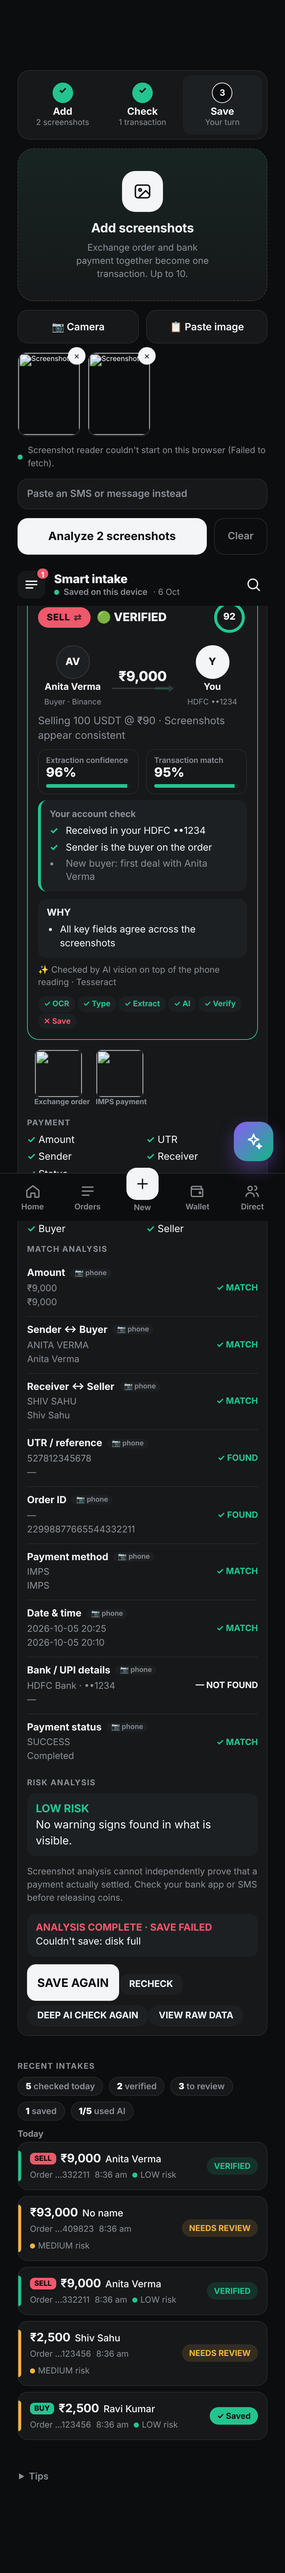
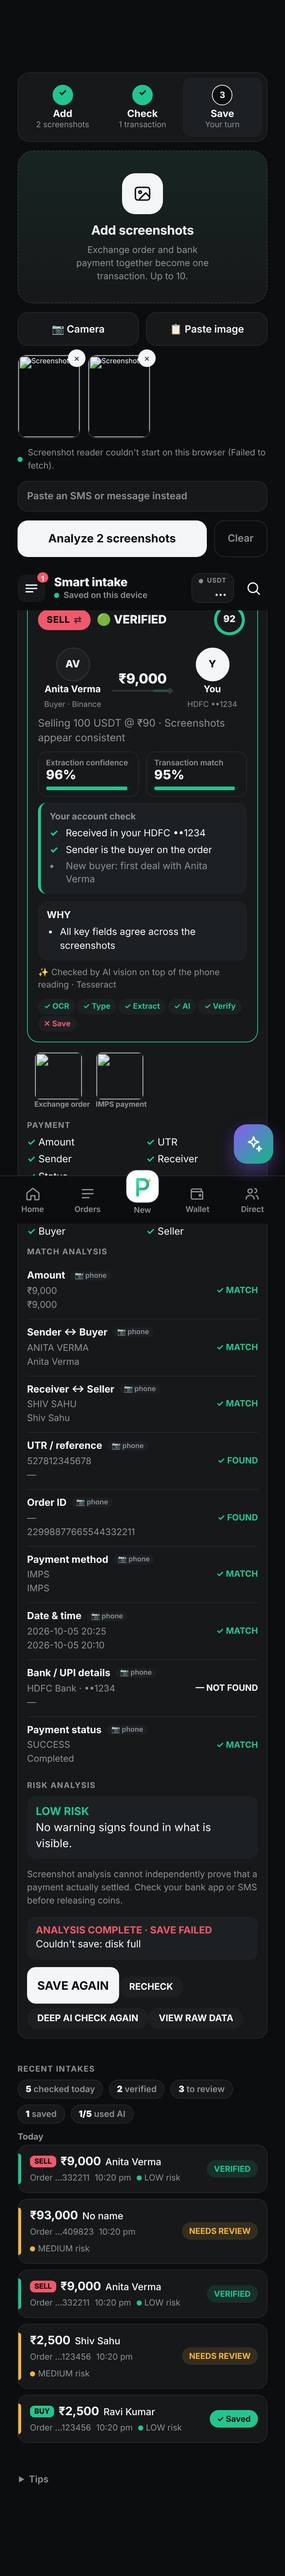
Smart intake: link several part payments to one order and save each as its own bank split
Claude-Session: https://claude.ai/code/session_01Wus5P8BMW3JZywQjbeFwaG

diff --git a/web/index.html b/web/index.html
@@ -2413,6 +2413,19 @@ function ixGroup(items){const pays=items.filter(x=>x.pay),ords=items.filter(x=>x
   const score=(p,j)=>ixPairScore(p.pay,ords[j].ord,p.ocr.text);
   const pairs=[];pays.forEach(p=>ords.forEach((o,j)=>pairs.push({p,j,s:score(p,j),hard:ixHard(p.pay,o.ord)})));pairs.sort((a,b)=>b.s-a.s);
   const used=new Set(),taken=new Set();
+  // pass 0: part payments. Several payments (other banks / other amounts) that add up to exactly one order's total are ONE transaction
+  ords.forEach((o,j)=>{try{const O=o.ord,amt=O.fiat!=null?O.fiat:(O.crypto&&O.price?O.crypto*O.price:null);if(!(amt>0))return;const tol=Math.max(1,amt*0.002);
+    if(pays.some(p=>!used.has(p)&&p.pay.amount!=null&&Math.abs(p.pay.amount-amt)<=tol))return; // one payment already fits the whole order
+    const ot=verWhen((O.when||"").slice(0,10),(O.when||"").slice(11,16));
+    const cand=pays.filter(p=>{const q=p.pay;if(used.has(p)||!(q.amount>0)||q.amount>=amt-tol)return false;
+      if(verName(q.sender,O.buyer)==="X"&&verName(q.receiver,O.seller)==="X")return false;
+      const pt=verWhen(q.date,q.time);if(pt&&ot){const d=pt-ot;if(d<-5*60e3||d>48*36e5)return false}return true})
+      .sort((a,b)=>(verWhen(a.pay.date,a.pay.time)||0)-(verWhen(b.pay.date,b.pay.time)||0)).slice(0,8);
+    let best=null;for(let m=1;m<(1<<cand.length);m++){const sub=cand.filter((_,i)=>m&(1<<i));if(sub.length<2||sub.length>4)continue;
+      const sum=sub.reduce((t,x)=>t+x.pay.amount,0);if(Math.abs(sum-amt)>tol)continue;
+      const u=sub.map(x=>x.pay.utr?normRef(x.pay.utr):"").filter(Boolean);if(new Set(u).size<u.length)continue; // the same payment twice is not two part payments
+      if(!best||sub.length<best.length)best=sub}
+    if(best){best.forEach(p=>{used.add(p);p.part=true;p.pairScore=3});taken.add(j);groups[j].pays.push(...best);groups[j].partSum=best.reduce((t,x)=>t+x.pay.amount,0)}}catch(e){}});
   // pass 1: strong evidence, one payment per order first
   pairs.forEach(x=>{if(used.has(x.p)||taken.has(x.j)||x.s<2||x.hard)return;used.add(x.p);taken.add(x.j);groups[x.j].pays.push(x.p);x.p.pairScore=x.s});
   // pass 2: whatever is left. A lone order and a lone payment are the same transaction unless they clearly contradict each other
@@ -2448,7 +2461,7 @@ function ixAiReady(){return aiCfg.prov!=="builtin"||i2Max>0}
 function ixVerify(g){const P=(g.pays.find(x=>!x.support)||g.pays[0]||{}).pay,O=(g.order||{}).ord;
   const X={pay:g.aiPay||P||{status:null,amount:null,currency:null,sender:null,receiver:null,utr:null,method:null,bank:null,date:null,time:null,acct:null,conf:null},ord:g.aiOrd||O||{id:null,status:null,buyer:null,seller:null,fiat:null,crypto:null,coin:null,price:null,method:null,when:null,acct:null,conf:null},flags:g.aiFlags||[]};
   // clean junk names, then fill in YOUR side: the receipt rarely prints your own name, and the exchange order never prints it
-  g.inferred=[];X.pay={...X.pay};X.ord={...X.ord};
+  g.inferred=[];X.pay={...X.pay};X.ord={...X.ord};if(g.partSum&&X.pay)X.pay.amount=g.partSum;
   ["sender","receiver"].forEach(k=>{if(X.pay[k]){const c=ixNameClean(X.pay[k]);X.pay[k]=c||null}});["buyer","seller"].forEach(k=>{if(X.ord[k]){const c=ixNameClean(X.ord[k]);X.ord[k]=c||null}});
   try{if(X.ord.whenAlt&&X.ord.when&&X.pay.date){const pt=verWhen(X.pay.date,X.pay.time),T=v=>new Date(String(v).replace(" ","T")).getTime();if(pt&&Math.abs(T(X.ord.whenAlt)-pt)<Math.abs(T(X.ord.when)-pt))X.ord.when=X.ord.whenAlt}}catch(e){}
   g.X=X;
@@ -4784,10 +4797,17 @@ async function ixSave(g,force){const X=g.X,P=X.pay,O=X.ord;
     let proofs=[];if(assetsApi){try{proofs=await uploadProofs(g.items.map(x=>x.file))}catch(e){}}
     const shots=g.items.map(x=>x.hash);const pv=g.cmp.overall==="VERIFIED"?"verified":"ai";const method=METHODS.includes(String(verMeth(P.method)))?verMeth(P.method):"UPI";
     const split=bk&&P.amount?[{bank:bk.id,amt:+P.amount,method}]:[];const notes=[];if(P.amount&&!bk)notes.push("Bank not matched · assign it later");
+    // part payments (several payments that together make this order): each one becomes its own bank split
+    if(g.partSum){try{split.length=0;notes.length=0;let lost=0;const seen=new Set();
+      g.pays.filter(x=>x.part&&x.pay&&x.pay.amount>0).forEach(x=>{const q=x.pay,b2=payBank({last4:q.last4||"",bank:q.bank||""});
+        if(!b2){lost++;return}const k=b2.id+"|"+(+q.amount);if(seen.has(k))return;seen.add(k);
+        split.push({bank:b2.id,amt:+q.amount,method:METHODS.includes(String(verMeth(q.method)))?verMeth(q.method):"UPI"})});
+      if(lost)notes.push(lost+" part payment"+(lost>1?"s":"")+" had no matching bank · assign later");
+      if(split.length>1)notes.push("Paid from "+split.length+" banks")}catch(e){}}
     if(g.target){const t=g.target;
       if(P.utr&&t.utr&&normRef(t.utr)===normRef(P.utr))return{state:"skipped",msg:"Already recorded on that order"};
       const patch={shots:[...new Set([...(t.shots||[]),...shots])],proofs:[...(t.proofs||[]),...proofs],pv,...(P.utr&&!t.utr?{utr:P.utr}:{}),...(!exIdOf(t)&&O.id?{exId:O.id}:{}),...(P.date?{payAt:verWhen(P.date,P.time)||undefined}:{})};
-      if(split.length&&allocated(t)<orderTotal(t)-0.5)patch.splits=[...(t.splits||[]),...split];
+      if(split.length&&allocated(t)<orderTotal(t)-0.5){const have=new Set((t.splits||[]).map(x=>x.bank+"|"+x.amt));patch.splits=[...(t.splits||[]),...split.filter(x=>!have.has(x.bank+"|"+x.amt))]}
       await patchRec(t.id,patch);await auditLog(t,"intake_attach",{result:g.cmp.overall,risk:g.risk.level});g.savedId=t.id;notes.unshift("Added to your existing order")}
     else{const side=ixSide(g);if(!side)return{state:"failed",msg:"Choose whether you bought or sold, then save"};
       const fiat=O.fiat!=null?O.fiat:P.amount,qty=O.crypto||(fiat&&O.price?+(fiat/O.price).toFixed(2):null),rate=O.price||(fiat&&O.crypto?+(fiat/O.crypto).toFixed(2):null);
@@ -4836,7 +4856,7 @@ function ixCardHtml(g,many){const X=g.X,P=X.pay,O=X.ord,T=VER_TXT[g.cmp.overall]
   const R=sd==="BUY"?{n:other||"Seller",sub:"Seller"+(O.platform?" · "+O.platform:"")}:sd==="SELL"?{n:you,sub:M.acct||(P.acct&&ixAcctOk(P.acct)?"Account "+P.acct:P.bank)||"Your account",me:1}:{n:P.receiver||O.seller||"Receiver",sub:"Receiver"};
   const party=x=>`<div class="ixp${x.me?" me":""}"><span class="av">${esc(ini(x.n))}</span><b>${esc(x.n)}</b><small>${esc(x.sub)}</small></div>`;
   const C=2*Math.PI*19,off=C*(1-Math.max(0,Math.min(100,g.conf))/100),col=g.cmp.overall==="VERIFIED"?"var(--accent)":g.cmp.overall==="REVIEW"?"var(--warn)":"var(--sell)";
-  const deal=O.crypto&&O.price?`${sd==="SELL"?"Selling":sd==="BUY"?"Buying":"Trade"} ${O.crypto} ${O.coin||"USDT"} @ ₹${O.price}`:"";
+  const deal0=O.crypto&&O.price?`${sd==="SELL"?"Selling":sd==="BUY"?"Buying":"Trade"} ${O.crypto} ${O.coin||"USDT"} @ ₹${O.price}`:"";const partL=g.partSum?g.pays.filter(x=>x.part).map(x=>"₹"+(+(+x.pay.amount).toFixed(2)).toLocaleString("en-IN")).join(" + "):"";const deal=deal0+(partL?(deal0?" · ":"")+"Paid in "+g.pays.filter(x=>x.part).length+" parts: "+partL:"");
   return`<div class="vres ${g.cmp.overall}"><div class="ixtop">${sd?`<button type="button" class="ixside ${sd}" data-ix="flip" title="Wrong? Tap to switch">${sd} <i>⇄</i></button>`:""}<span class="vchip">${T[0]} ${g.cmp.overall==="VERIFIED"?"VERIFIED":T[1]}</span><span class="ixring" title="${g.conf}% overall trust"><svg viewBox="0 0 48 48" width="48" height="48"><circle cx="24" cy="24" r="19" fill="none" stroke="var(--line)" stroke-width="4"/><circle class="rg" cx="24" cy="24" r="19" fill="none" stroke="${col}" stroke-width="4" stroke-linecap="round" stroke-dasharray="${C.toFixed(1)}" stroke-dashoffset="${off.toFixed(1)}" style="--c:${C.toFixed(1)}" transform="rotate(-90 24 24)"/></svg><b>${g.conf}</b></span></div>
     <div class="ixflow">${party(L)}<div class="ixmid"><div class="ixamt">${amt!=null?inr(amt):"Amount not read"}</div><div class="ixline"><span></span></div>${O.fiat!=null&&P.amount!=null&&Math.abs(O.fiat-P.amount)>1?`<small>order says ${inr(O.fiat)}</small>`:""}</div>${party(R)}</div>
     <div class="vt">${deal?esc(deal)+" · ":""}${g.cmp.overall==="VERIFIED"?"Screenshots appear consistent":g.cmp.overall==="REVIEW"?"Needs your review":"Potential inconsistency detected"}${g.order?"":" · payment only"}</div>
@@ -5296,7 +5316,7 @@ sheets.wa=function(tab){tab=tab||"home";const due=parties.map(p=>({p,l:partyOwed
   })};
 ACT.wa_send={d:a=>`WhatsApp ${a.kind==="stmt"?"statement":"update"} → ${(parties.find(p=>p.id===a.party)||{}).name||"party"}`,run:async a=>{const p=parties.find(x=>x.id===a.party);if(!p)throw new Error("party not found");try{closeAiPop()}catch(e){}setTimeout(()=>sheets.wasend({party:p.id,kind:a.kind==="stmt"?"stmt":"update"}),200)}};
 // ================= FEEDBACK & UPDATES
-const APP_BUILD=68;const APP_VER="0.0.0."+String(APP_BUILD).padStart(5,"0");
+const APP_BUILD=69;const APP_VER="0.0.0."+String(APP_BUILD).padStart(5,"0");
 setInterval(()=>{const c=document.getElementById("dClock");if(c)c.textContent=new Date().toLocaleTimeString("en-IN",{hour:"numeric",minute:"2-digit"})},15000);
 
 const FB_T={bug:["Problem","🐞","Kya galat hua? Kis screen pe, kya dabaya, kya aana chahiye tha…"],feat:["New feature","✨","Naya kya chahiye? Jaise: har party ka monthly summary…"],imp:["Improve","🔧","Kya behtar ho sakta hai? Jaise: ye button bada ho…"],like:["Like it","❤","Kya accha laga? Isse pata chalta hai kya mat badlo."]};
@@ -5363,6 +5383,7 @@ sheets.feedback=function(tab,pre){tab=tab||"send";pre=pre||{};
   })};
 // ================= ABOUT (version + updates)
 const APP_LOG=[
+  ["0.0.0.00069","7 Oct 2026",["Smart intake understands part payments: when two or more payment screenshots (other banks, other amounts) add up to exactly one order, they are linked to that order and each is saved as its own bank split"]],
   ["0.0.0.00068","7 Oct 2026",["Settings > Theme now shows what Auto sees (phone is dark or light) and tells you if the installed app is too old for Auto"]],
   ["0.0.0.00067","7 Oct 2026",["Theme set to Auto now follows the phone: it switches live when the phone goes light or dark, and when you return to the app (needs the new APK to read the phone theme correctly)"]],
   ["0.0.0.00066","7 Oct 2026",["Opening screen now tries to follow the theme you chose inside the app (Light / Dark / Auto), not only the phone theme. Needs the new APK; works on Android 12 and newer when the phone allows it"]],

diff --git a/tests/intake_partpay_test.py b/tests/intake_partpay_test.py
@@ -1,0 +1,40 @@
+import asyncio, json, time, os
+from playwright.async_api import async_playwright
+APP=os.environ.get("APP","/home/claude/p2p-tracker.html")
+FX=os.path.dirname(os.path.abspath(__file__))+"/fixtures/"
+pay=open(FX+"pay_phonepe.txt").read(); order=open(FX+"order_kucoin.txt").read()
+payA=pay.replace("~2,500","~1,500")
+payB=(pay.replace("~2,500","~1,000").replace("T2610052141123456789","T2610052144987654321").replace("UTR 628151234567","UTR 628159999999")
+      .replace("09:41 PM","09:44 PM").replace("XXXXXX1234 (HDFC","XXXXXX9876 (SBI").replace("Bank)","Bank)"))
+T={"payA.png":payA,"payB.png":payB,"ord1.png":order}
+now=int(time.time()*1000)
+RECS=[{"id":"B1","kind":"bank","name":"HDFC","bankName":"HDFC Bank","accNo":"50100012341234","type":"Bank","opening":100000,"time":now-30*864e5},
+      {"id":"B2","kind":"bank","name":"SBI","bankName":"SBI","accNo":"30000000009876","type":"Bank","opening":100000,"time":now-30*864e5}]
+async def main():
+  ok=True
+  def chk(n,c):
+    nonlocal ok
+    print(("PASS " if c else "FAIL ")+n);ok=ok and bool(c)
+  async with async_playwright() as p:
+    b=await p.chromium.launch();pg=await b.new_page(viewport={"width":390,"height":900});errs=[]
+    pg.on("pageerror",lambda e:errs.append(str(e)))
+    await pg.route("**/*",lambda r:r.abort() if r.request.url.startswith("http") else r.continue_())
+    await pg.add_init_script(f"localStorage.setItem('p2p_orders_v1',{json.dumps(json.dumps(RECS))})")
+    await pg.goto("file://"+APP);await pg.wait_for_timeout(900)
+    await pg.evaluate("window.__T=%s"%json.dumps(T))
+    await pg.evaluate("void(()=>{ixOcr=async(it)=>({text:window.__T[it.file.name]||'',conf:92,engine:'Tesseract',status:'ok'});assetsApi={upload:async()=>({id:'a'+Math.random()})}})()")
+    await pg.evaluate("goPage('intake')");await pg.wait_for_timeout(300)
+    mk=lambda n,k:{"name":n,"mimeType":"image/png","buffer":bytes([k]*40)}
+    await pg.set_input_files("#i2-file",[mk("payA.png",1),mk("payB.png",2),mk("ord1.png",3)]);await pg.wait_for_timeout(2800)
+    info=await pg.evaluate("ixS.groups.map(g=>[g.order?1:0,g.pays.length,g.pays.map(x=>x.support?'s':'p').join('')])")
+    print("groups:",info)
+    chk("one group with order and two part payments",len(info)==1 and info[0][0]==1 and info[0][1]==2)
+    await pg.evaluate("document.querySelector('[data-ix=save]').click()");await pg.wait_for_timeout(900)
+    r=await pg.evaluate("(()=>{const o=orders[0];return o?{n:orders.length,sp:(o.splits||[]).map(s=>[s.bank,s.amt]),qty:o.qty}:null})()")
+    print("saved:",r)
+    chk("one order saved",r and r["n"]==1)
+    chk("two bank splits saved (HDFC 1500 + SBI 1000)",r and sorted(map(tuple,r["sp"]))==[("B1",1500),("B2",1000)])
+    chk("fully allocated (no 'not assigned to a bank')",await pg.evaluate("(()=>{const o=orders[0];return Math.abs(allocated(o)-orderTotal(o))<1})()"))
+    chk("no page errors "+str(errs),not errs)
+  print("ALL OK" if ok else "SOME FAILED")
+asyncio.run(main())
